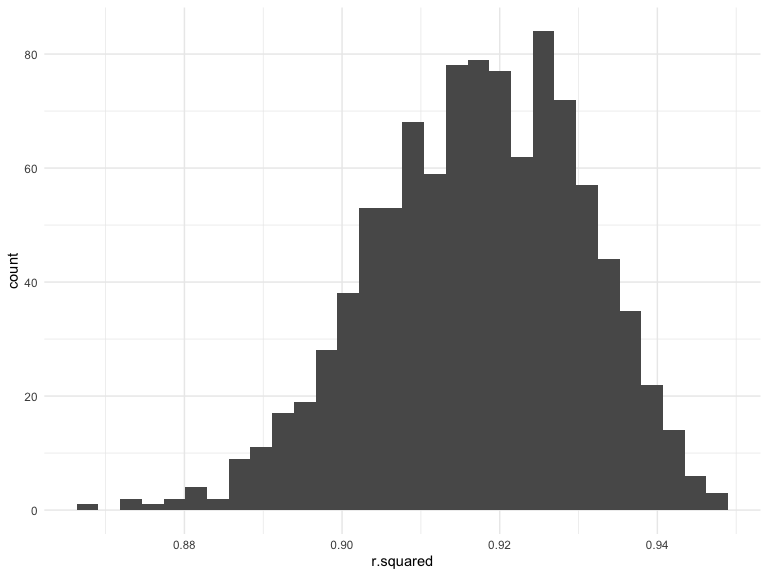
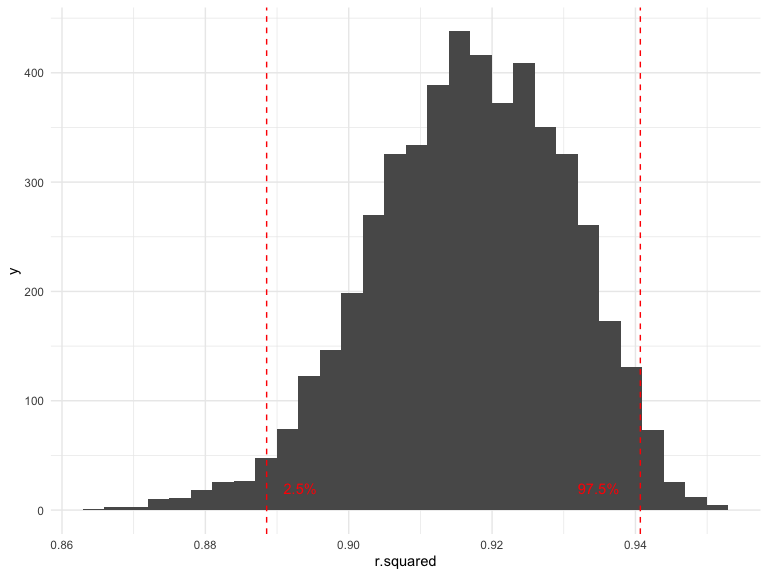
Problem 2 - add confidence intervals, and up sample to 5000
Problem 3 - Finalize

diff --git a/p8105_hw6_khs2138.md b/p8105_hw6_khs2138.md
@@ -9,7 +9,10 @@ Kayla Schiffer-Kane
   - [City-wise GLM](#city-wise-glm)
   - [Plot OR and CIs](#plot-or-and-cis)
 - [Problem 2](#problem-2)
-  - [Todo: Update to 5000 and add CI](#todo-update-to-5000-and-add-ci)
+  - [Load and clean weather data](#load-and-clean-weather-data)
+  - [Bootstrap samples](#bootstrap-samples)
+  - [Generate predictions](#generate-predictions)
+  - [Plot predictions](#plot-predictions)
 - [Problem 3](#problem-3)
   - [Load and clean birthweight data](#load-and-clean-birthweight-data)
   - [Build and plot regression model](#build-and-plot-regression-model)
@@ -179,6 +182,8 @@ victims.
 
 # Problem 2
 
+## Load and clean weather data
+
 For this problem, we’ll use the Central Park weather data similar to
 data we’ve seen elsewhere. The code chunk below (adapted from the course
 website) will download these data.
@@ -196,6 +201,8 @@ weather_df =
     tmax = tmax / 10) |>
   select(name, id, everything())
 ```
+
+## Bootstrap samples
 
 The boostrap is helpful when you’d like to perform inference for a
 parameter / value / summary that doesn’t have an easy-to-write-down
@@ -225,7 +232,7 @@ boot_sample = function(df) {
 }
 
 boot_straps = 
-  tibble(strap_number = 1:1000) |> 
+  tibble(strap_number = 1:5000) |> 
   mutate(
     strap_sample = map(strap_number, \(i) boot_sample(df = weather_df))
   )
@@ -233,7 +240,7 @@ boot_straps =
 boot_straps
 ```
 
-    ## # A tibble: 1,000 × 2
+    ## # A tibble: 5,000 × 2
     ##    strap_number strap_sample      
     ##           <int> <list>            
     ##  1            1 <tibble [365 × 6]>
@@ -246,7 +253,9 @@ boot_straps
     ##  8            8 <tibble [365 × 6]>
     ##  9            9 <tibble [365 × 6]>
     ## 10           10 <tibble [365 × 6]>
-    ## # ℹ 990 more rows
+    ## # ℹ 4,990 more rows
+
+## Generate predictions
 
 **Apply logistic regression to bootstraps and extract desired
 estimates**
@@ -273,23 +282,33 @@ bootstrap_rsquared = bootstrap_lm |>
   select(strap_number, r.squared)
 ```
 
+## Plot predictions
+
 **Plot estimates**
 
 ``` r
+quantiles_r_squared <- quantile(bootstrap_rsquared$r.squared, c(0.025, 0.975))
+
 bootstrap_rsquared |>
-  ggplot(aes(x = r.squared)) + geom_histogram()
+  ggplot(aes(x = r.squared)) + geom_histogram() + 
+  geom_vline(xintercept = quantiles_r_squared, linetype = "dashed", color = "red") +
+  annotate("text", x = quantiles_r_squared[1], y = 20, label = "2.5%", color = "red", hjust = -0.5) +
+  annotate("text", x = quantiles_r_squared[2], y = 20, label = "97.5%", color = "red", hjust = 1.5)
 ```
 
 <img src="p8105_hw6_khs2138_files/figure-gfm/plot_rsquared-1.png" width="90%" />
 
 ``` r
+quantiles_log_beta_prod <- quantile(bootstrap_betas$log_beta_prod, c(0.025, 0.975), na.rm = TRUE)
+
 bootstrap_betas |>
-  ggplot(aes(x = log_beta_prod)) + geom_histogram()
+  ggplot(aes(x = log_beta_prod)) + geom_histogram() +
+  geom_vline(xintercept = quantiles_log_beta_prod, linetype = "dashed", color = "red") +
+  annotate("text", x = quantiles_log_beta_prod[1], y = 20, label = "2.5%", color = "red", hjust = -0.5) +
+  annotate("text", x = quantiles_log_beta_prod[2], y = 20, label = "97.5%", color = "red", hjust = 1.5)
 ```
 
 <img src="p8105_hw6_khs2138_files/figure-gfm/plot_betas-1.png" width="90%" />
-
-## Todo: Update to 5000 and add CI
 
 # Problem 3
 
@@ -317,6 +336,9 @@ Describe your modeling process and show a plot of model residuals
 against fitted values – use add_predictions and add_residuals in making
 this plot.**
 
+The model below looks at factors of the baby, including the ehad
+circumference, length, and sex, to predict birthweight.
+
 ``` r
 fit = lm(bwt ~ bhead + blength + babysex, data = birth_df)
 
@@ -334,42 +356,20 @@ birth_df |>
 
 ## Model comparison
 
-Compare your model to two others:
+**Compare your model to two others:**
 
-- One using length at birth and gestational age as predictors (main
-  effects only)
-- One using head circumference, length, sex, and all interactions
-  (including the three-way interaction) between these
-
-``` r
-fit_1 = lm(bwt ~ gaweeks + blength, data = birth_df)
-
-birth_df |>
-  modelr::add_predictions(fit_1) |>
-  rename(pred_bwt = pred) |>
-  modelr::add_residuals(fit_1) |>
-  rename(resid_bwt = resid) |>
-  ggplot(aes(x = pred_bwt, y = resid_bwt)) +
-  geom_point()
-
-fit_2 = lm(bwt ~ bhead * blength * babysex, data = birth_df)
-birth_df |>
-  modelr::add_predictions(fit_2) |>
-  rename(pred_bwt = pred) |>
-  modelr::add_residuals(fit_2) |>
-  rename(resid_bwt = resid) |>
-  ggplot(aes(x = pred_bwt, y = resid_bwt)) +
-  geom_point()
-```
+- **One using length at birth and gestational age as predictors (main
+  effects only)**
+- **One using head circumference, length, sex, and all interactions
+  (including the three-way interaction) between these**
 
 ``` r
 fit = lm(bwt ~ bhead + blength + babysex, data = birth_df)
-fit_1 = lm(bwt ~ gaweeks + blength, data = birth_df)
-fit_2 = lm(bwt ~ bhead * blength * babysex, data = birth_df)
-
+compare_1 = lm(bwt ~ gaweeks + blength, data = birth_df)
+compare_2 = lm(bwt ~ bhead * blength * babysex, data = birth_df)
 
 birth_df |>
-  gather_predictions(fit, fit_1, fit_2) |>
+  gather_predictions(fit, compare_1, compare_2) |>
   mutate(model = fct_inorder(model)) |> 
   ggplot(aes(x = blength, y = bwt)) + 
   geom_point() + 
@@ -378,6 +378,9 @@ birth_df |>
 ```
 
 <img src="p8105_hw6_khs2138_files/figure-gfm/model_compare-1.png" width="90%" />
+
+**Make this comparison in terms of the cross-validated prediction error;
+use crossv_mc and functions in purrr as appropriate.**
 
 ``` r
 birth_cv =
@@ -389,30 +392,15 @@ birth_cv =
 birth_cv = birth_cv |>
   mutate(
     model = map(train, \(df) fit),
-    model_1 = map(train, \(df) fit_1),
-    model_2 = map(train, \(df) fit_2)) |>
+    model_1 = map(train, \(df) compare_1),
+    model_2 = map(train, \(df) compare_2)) |>
   mutate(
     rmse_mod = map2_dbl(model, test, \(mod, df) rmse(model = mod, data = df)),
     rmse_mod1 = map2_dbl(model_1, test, \(mod, df) rmse(model = mod, data = df)),
     rmse_mod2 = map2_dbl(model_2, test, \(mod, df) rmse(model = mod, data = df))
   )
-birth_cv
+#birth_cv
 ```
-
-    ## # A tibble: 100 × 9
-    ##    train    test     .id   model  model_1 model_2 rmse_mod rmse_mod1 rmse_mod2
-    ##    <list>   <list>   <chr> <list> <list>  <list>     <dbl>     <dbl>     <dbl>
-    ##  1 <tibble> <tibble> 001   <lm>   <lm>    <lm>        283.      330.      283.
-    ##  2 <tibble> <tibble> 002   <lm>   <lm>    <lm>        297.      330.      294.
-    ##  3 <tibble> <tibble> 003   <lm>   <lm>    <lm>        290.      318.      285.
-    ##  4 <tibble> <tibble> 004   <lm>   <lm>    <lm>        295.      323.      290.
-    ##  5 <tibble> <tibble> 005   <lm>   <lm>    <lm>        285.      321.      282.
-    ##  6 <tibble> <tibble> 006   <lm>   <lm>    <lm>        286.      332.      287.
-    ##  7 <tibble> <tibble> 007   <lm>   <lm>    <lm>        288.      337.      289.
-    ##  8 <tibble> <tibble> 008   <lm>   <lm>    <lm>        296.      336.      294.
-    ##  9 <tibble> <tibble> 009   <lm>   <lm>    <lm>        281.      341.      282.
-    ## 10 <tibble> <tibble> 010   <lm>   <lm>    <lm>        293.      326.      288.
-    ## # ℹ 90 more rows
 
 ``` r
 birth_cv |> 
@@ -426,4 +414,10 @@ birth_cv |>
   ggplot(aes(x = model, y = rmse)) + geom_violin()
 ```
 
-<img src="p8105_hw6_khs2138_files/figure-gfm/unnamed-chunk-3-1.png" width="90%" />
+<img src="p8105_hw6_khs2138_files/figure-gfm/model_compare_plot-1.png" width="90%" />
+
+Using birth length and gestational age main effects only produces the
+poorest performance. The performance for my linear model incorporating
+head circumference, length, and sex performs similarly to the comparison
+model that looks at interaction between head circumference, length, and
+sex.
